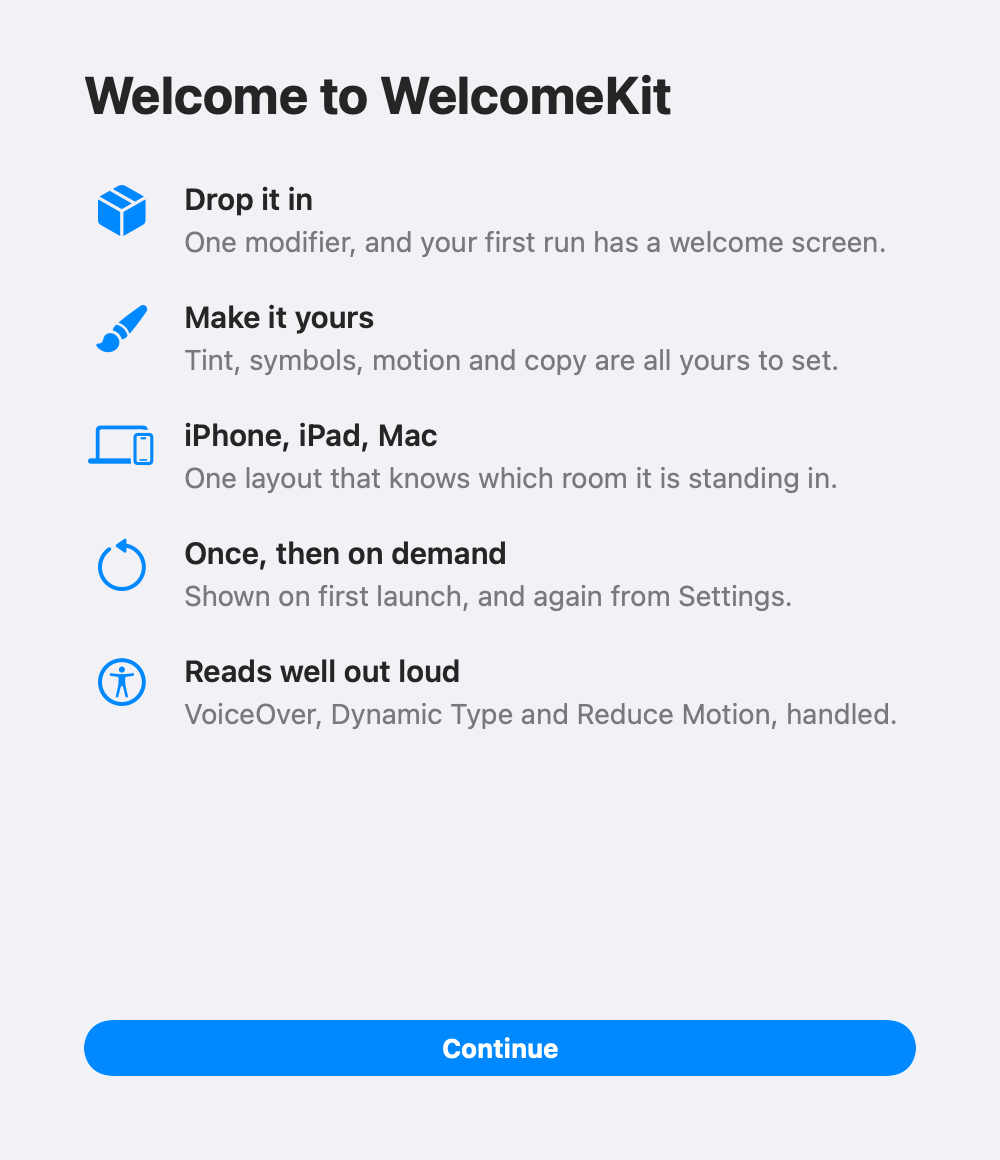
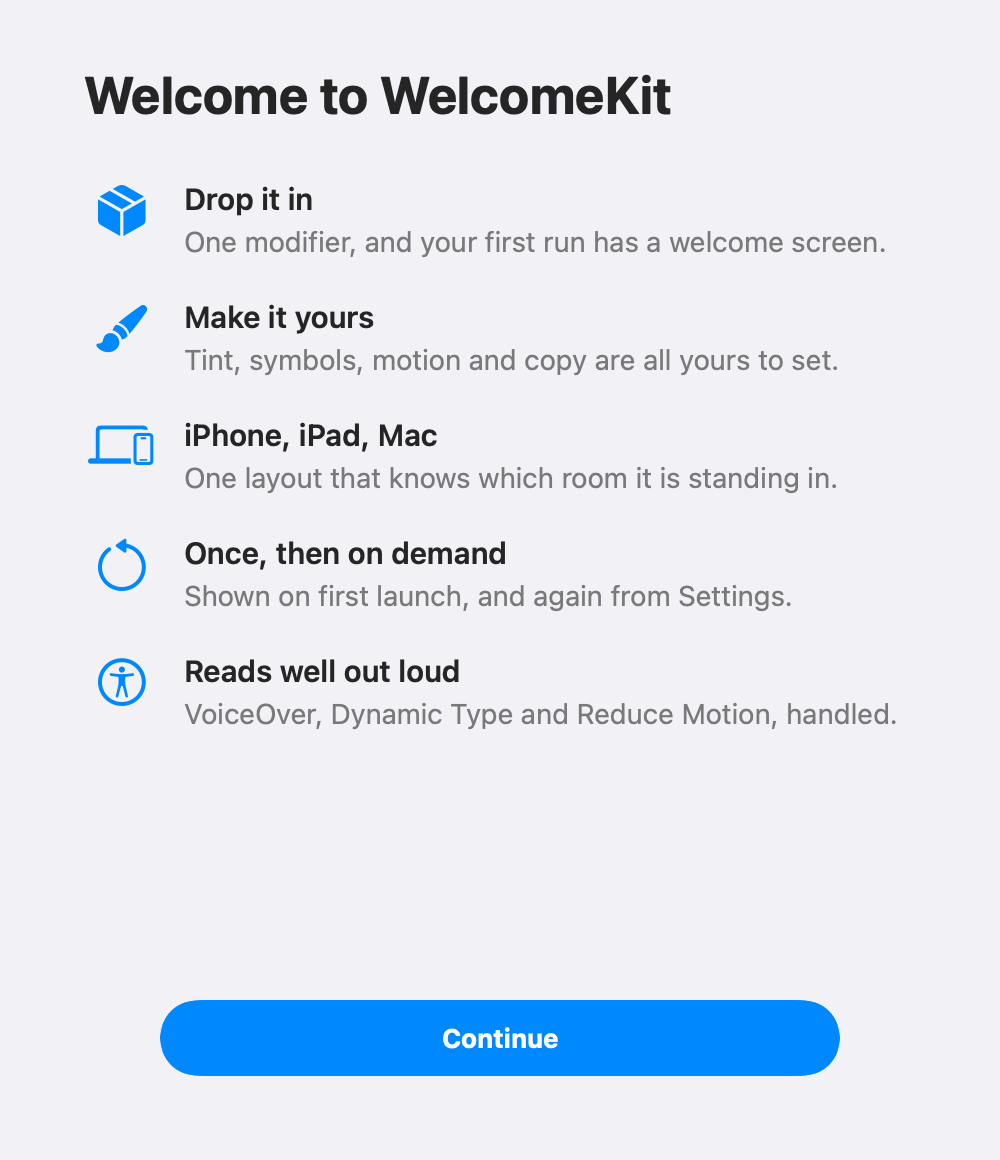
Drop the secondary button, and tighten the Mac call to action
The secondary "Not now" button was a feature nobody asked for: a welcome
screen has one way forward. Removing it takes `secondaryTitle` off the
configuration and `onSecondaryAction` off `WelcomeView` and both modifiers.

On macOS the button spanned 416pt of a 500pt sheet, which read as stretched
next to the same layout on iPad. It now caps at the same 340pt, and a new
`metrics.actionLabelPadding` gives it 10pt more height, since `.controlSize(.large)`
alone leaves a Mac button thin.

Changed region(s): [[0.062, 0.8379, 0.93, 0.931]]

diff --git a/Sources/WelcomeKit/WelcomeView.swift b/Sources/WelcomeKit/WelcomeView.swift
@@ -22,7 +22,7 @@ import SwiftUI
 /// ```
 ///
 /// Use it directly when you present it yourself, or reach for
-/// ``SwiftUICore/View/welcomeSheet(isPresented:title:features:configuration:onContinue:onSecondaryAction:)``
+/// ``SwiftUICore/View/welcomeSheet(isPresented:title:features:configuration:presentation:onContinue:)``
 /// and its first-launch sibling to skip the plumbing.
 public struct WelcomeView: View {
 
@@ -30,7 +30,6 @@ public struct WelcomeView: View {
     private let features: [WelcomeFeature]
     private let configuration: WelcomeConfiguration
     private let onContinue: () -> Void
-    private let onSecondaryAction: (() -> Void)?
 
     @Environment(\.accessibilityReduceMotion) private var reduceMotion
 
@@ -55,22 +54,17 @@ public struct WelcomeView: View {
     ///   - features: The rows, in the order they should arrive.
     ///   - configuration: Colour, motion, copy and metrics. See
     ///     ``WelcomeConfiguration``.
-    ///   - onContinue: Called once when the primary button is tapped.
-    ///   - onSecondaryAction: Called when the optional secondary button is
-    ///     tapped. The button only shows when both this and
-    ///     ``WelcomeConfiguration/secondaryTitle`` are set.
+    ///   - onContinue: Called once when the button is tapped.
     public init(
         title: WelcomeText,
         features: [WelcomeFeature],
         configuration: WelcomeConfiguration = .default,
-        onContinue: @escaping () -> Void,
-        onSecondaryAction: (() -> Void)? = nil
+        onContinue: @escaping () -> Void
     ) {
         self.title = title
         self.features = features
         self.configuration = configuration
         self.onContinue = onContinue
-        self.onSecondaryAction = onSecondaryAction
 
         // With the reveal switched off the screen is complete from the first
         // frame, rather than appearing empty until `onAppear` runs. That also
@@ -172,18 +166,6 @@ public struct WelcomeView: View {
         VStack(spacing: 10) {
             continueButton
 
-            if let secondaryTitle = configuration.secondaryTitle, let onSecondaryAction {
-                Button {
-                    onSecondaryAction()
-                } label: {
-                    secondaryTitle
-                        .text(bundle: configuration.localizationBundle, tableName: configuration.localizationTable)
-                        .font(.subheadline.weight(.medium))
-                }
-                .buttonStyle(.plain)
-                .foregroundStyle(resolvedAccentColor ?? .accentColor)
-            }
-
             if let footnote = configuration.footnote {
                 footnote
                     .text(bundle: configuration.localizationBundle, tableName: configuration.localizationTable)
@@ -193,7 +175,7 @@ public struct WelcomeView: View {
                     .fixedSize(horizontal: false, vertical: true)
             }
         }
-        .welcomeAdaptiveActionWidth(isWide: isWideLayout, maxWidth: metrics.actionMaxWidth)
+        .welcomeAdaptiveActionWidth(isWide: capsActionWidth, maxWidth: metrics.actionMaxWidth)
         .padding(.horizontal, horizontalInset)
         .padding(.top, metrics.bottomBarVerticalPadding)
         .padding(.bottom, actionBottomPadding)
@@ -245,6 +227,7 @@ public struct WelcomeView: View {
         configuration.continueTitle
             .text(bundle: configuration.localizationBundle, tableName: configuration.localizationTable)
             .font(.headline)
+            .padding(.vertical, metrics.actionLabelPadding)
             .welcomeFlexibleLabelWidth()
     }
 
@@ -258,6 +241,17 @@ public struct WelcomeView: View {
     }
 
     private var resolvedAccentColor: Color? { configuration.accentColor }
+
+    /// A phone lets the button fill the width. Every wider surface caps it, a
+    /// Mac window included: a 416pt slab reads as stretched next to the same
+    /// layout on iPad.
+    private var capsActionWidth: Bool {
+        #if os(macOS)
+        true
+        #else
+        isWideLayout
+        #endif
+    }
 
     private var horizontalInset: CGFloat {
         isWideLayout ? metrics.wideHorizontalPadding : metrics.compactHorizontalPadding

diff --git a/Sources/WelcomeKit/WelcomeConfiguration.swift b/Sources/WelcomeKit/WelcomeConfiguration.swift
@@ -89,10 +89,6 @@ public struct WelcomeConfiguration: @unchecked Sendable {
     /// Label of the primary button.
     public var continueTitle: WelcomeText
 
-    /// Label of an optional plain button under the primary one. `nil` hides it,
-    /// and so does a missing `onSecondaryAction` handler.
-    public var secondaryTitle: WelcomeText?
-
     /// Look of the primary button.
     public var buttonStyle: WelcomeButtonStyle
 
@@ -137,7 +133,6 @@ public struct WelcomeConfiguration: @unchecked Sendable {
         footnote: WelcomeText? = nil,
         maximumFeatureCount: Int? = nil,
         continueTitle: WelcomeText = .localized("Continue"),
-        secondaryTitle: WelcomeText? = nil,
         buttonStyle: WelcomeButtonStyle = .automatic,
         animation: WelcomeAnimation = .default,
         isHapticsEnabled: Bool = true,
@@ -159,7 +154,6 @@ public struct WelcomeConfiguration: @unchecked Sendable {
         self.footnote = footnote
         self.maximumFeatureCount = maximumFeatureCount
         self.continueTitle = continueTitle
-        self.secondaryTitle = secondaryTitle
         self.buttonStyle = buttonStyle
         self.animation = animation
         self.isHapticsEnabled = isHapticsEnabled
@@ -315,6 +309,11 @@ public struct WelcomeMetrics: Sendable, Equatable {
     /// Vertical padding inside the bottom bar.
     public var bottomBarVerticalPadding: CGFloat
 
+    /// Extra height inside the primary button, added around its label. iOS gets
+    /// a tall enough button from `.controlSize(.large)` alone; a Mac one comes
+    /// out thin next to the same layout on iPad.
+    public var actionLabelPadding: CGFloat
+
     /// Gap between the title and the first row.
     public var titleBottomPadding: CGFloat
 
@@ -341,6 +340,7 @@ public struct WelcomeMetrics: Sendable, Equatable {
         wideTopPadding: CGFloat = 64,
         extraBottomPadding: CGFloat = 34,
         bottomBarVerticalPadding: CGFloat = 8,
+        actionLabelPadding: CGFloat = 0,
         titleBottomPadding: CGFloat = 28,
         featureSpacing: CGFloat = 20,
         symbolSpacing: CGFloat = 12,
@@ -356,6 +356,7 @@ public struct WelcomeMetrics: Sendable, Equatable {
         self.wideTopPadding = wideTopPadding
         self.extraBottomPadding = extraBottomPadding
         self.bottomBarVerticalPadding = bottomBarVerticalPadding
+        self.actionLabelPadding = actionLabelPadding
         self.titleBottomPadding = titleBottomPadding
         self.featureSpacing = featureSpacing
         self.symbolSpacing = symbolSpacing
@@ -369,6 +370,7 @@ public struct WelcomeMetrics: Sendable, Equatable {
         #if os(macOS)
         WelcomeMetrics(
             compactTopPadding: 32,
+            actionLabelPadding: 5,
             symbolColumnWidth: 38,
             symbolColumnHeight: 30
         )

diff --git a/Sources/WelcomeKit/WelcomePresentation.swift b/Sources/WelcomeKit/WelcomePresentation.swift
@@ -75,8 +75,7 @@ public extension View {
         features: [WelcomeFeature],
         configuration: WelcomeConfiguration = .default,
         presentation: WelcomePresentation = .automatic,
-        onContinue: (() -> Void)? = nil,
-        onSecondaryAction: (() -> Void)? = nil
+        onContinue: (() -> Void)? = nil
     ) -> some View {
         modifier(
             WelcomeSheetModifier(
@@ -85,8 +84,7 @@ public extension View {
                     title: title,
                     features: features,
                     configuration: configuration,
-                    onContinue: onContinue,
-                    onSecondaryAction: onSecondaryAction
+                    onContinue: onContinue
                 ),
                 presentation: presentation,
                 onDismiss: nil
@@ -121,8 +119,7 @@ public extension View {
         features: [WelcomeFeature],
         configuration: WelcomeConfiguration = .default,
         presentation: WelcomePresentation = .automatic,
-        onContinue: (() -> Void)? = nil,
-        onSecondaryAction: (() -> Void)? = nil
+        onContinue: (() -> Void)? = nil
     ) -> some View {
         modifier(
             FirstLaunchWelcomeModifier(
@@ -132,8 +129,7 @@ public extension View {
                     title: title,
                     features: features,
                     configuration: configuration,
-                    onContinue: onContinue,
-                    onSecondaryAction: onSecondaryAction
+                    onContinue: onContinue
                 ),
                 presentation: presentation
             )
@@ -148,7 +144,6 @@ struct WelcomeContent {
     let features: [WelcomeFeature]
     let configuration: WelcomeConfiguration
     let onContinue: (() -> Void)?
-    let onSecondaryAction: (() -> Void)?
 }
 
 private struct WelcomeSheetModifier: ViewModifier {
@@ -178,12 +173,6 @@ private struct WelcomeSheetModifier: ViewModifier {
             onContinue: {
                 isPresented = false
                 content.onContinue?()
-            },
-            onSecondaryAction: content.onSecondaryAction.map { action in
-                {
-                    isPresented = false
-                    action()
-                }
             }
         )
         .interactiveDismissDisabled(!presentation.isDismissible)

diff --git a/Demo/WelcomeKitDemo/DemoView.swift b/Demo/WelcomeKitDemo/DemoView.swift
@@ -26,7 +26,6 @@ struct DemoView: View {
 
     @AppStorage("demo.featureCount") private var featureCount = 5
     @AppStorage("demo.footnote") private var showsFootnote = false
-    @AppStorage("demo.secondaryAction") private var showsSecondaryAction = false
     @AppStorage("demo.dismissible") private var isDismissible = true
     @AppStorage("demo.fullScreenCover") private var usesFullScreenCover = false
 
@@ -86,7 +85,6 @@ struct DemoView: View {
                 Section("Content") {
                     Stepper("Features: \(featureCount)", value: $featureCount, in: 1...DemoFeatures.all.count)
                     Toggle("Footnote", isOn: $showsFootnote)
-                    Toggle("Secondary button", isOn: $showsSecondaryAction)
                 }
 
                 Section {
@@ -114,8 +112,7 @@ struct DemoView: View {
             presentation: WelcomePresentation(
                 style: usesFullScreenCover ? .fullScreenCover : .sheet,
                 isDismissible: isDismissible
-            ),
-            onSecondaryAction: showsSecondaryAction ? {} : nil
+            )
         )
         .welcomeSheetOnFirstLaunch(
             id: "demo",
@@ -142,7 +139,6 @@ struct DemoView: View {
         configuration.animation = WelcomeAnimation(style: revealStyle, speed: speed)
         configuration.isHapticsEnabled = isHapticsEnabled
         configuration.footnote = showsFootnote ? "You can change any of this later in Settings." : nil
-        configuration.secondaryTitle = showsSecondaryAction ? "Not now" : nil
         return configuration
     }
 }

diff --git a/Sources/WelcomeKit/WelcomeStore.swift b/Sources/WelcomeKit/WelcomeStore.swift
@@ -5,7 +5,7 @@
 
 import Foundation
 
-/// The flag behind ``SwiftUICore/View/welcomeSheetOnFirstLaunch(id:store:title:features:configuration:presentation:onContinue:onSecondaryAction:)``.
+/// The flag behind ``SwiftUICore/View/welcomeSheetOnFirstLaunch(id:store:title:features:configuration:presentation:onContinue:)``.
 ///
 /// Read it to branch on whether the welcome screen has run, or reset it to make
 /// it run again — after a big update, or from a debug menu.

diff --git a/Tests/WelcomeKitTests/WelcomeKitTests.swift b/Tests/WelcomeKitTests/WelcomeKitTests.swift
@@ -62,9 +62,11 @@ struct LayoutTests {
         #if os(macOS)
         #expect(metrics.compactTopPadding == 32)
         #expect(metrics.symbolColumnWidth == 38)
+        #expect(metrics.actionLabelPadding == 5)
         #else
         #expect(metrics.compactTopPadding == 84)
         #expect(metrics.symbolColumnWidth == 42)
+        #expect(metrics.actionLabelPadding == 0)
         #endif
     }
 }

diff --git a/README.md b/README.md
@@ -13,7 +13,7 @@ Two lines to show it on first launch. One more to bring it back from Settings.
 <p align="center">
   <img src="Screenshots/iphone-light.png" width="200" alt="iPhone, light">
   <img src="Screenshots/iphone-dark.png" width="200" alt="iPhone, dark, indigo tint, hierarchical symbols">
-  <img src="Screenshots/iphone-orange.png" width="200" alt="iPhone, orange tint, palette symbols, secondary button">
+  <img src="Screenshots/iphone-pink.png" width="200" alt="iPhone, pink tint, hierarchical symbols, footnote">
 </p>
 
 ## Install
@@ -98,7 +98,7 @@ configuration.footnote = "You can change this later in Settings."
 | `isHapticsEnabled` | A tap per row, a success note when the button lands. iOS only. |
 | `background` | `.automatic`, `.color(_:)`, `.gradient(_:)`, `.clear`. |
 | `buttonStyle` | `.automatic`, `.prominent`, `.glass`, `.bordered`. |
-| `continueTitle`, `secondaryTitle`, `footnote` | The copy. Localized keys by default. |
+| `continueTitle`, `footnote` | The copy. Localized keys by default. |
 | `maximumFeatureCount` | Show the first N rows of a longer list. |
 | `titleFont`, `featureTitleFont`, `featureSubtitleFont` | Fonts, if the defaults are not your defaults. |
 | `metrics` | Every padding, width and breakpoint in the layout. |
@@ -130,8 +130,9 @@ the top padding drops, because a sheet has no notch to clear. The check is a
 measured width *and* the iPad idiom, so an iPhone in landscape and an iPad in
 Slide Over both keep the phone numbers.
 
-**Mac** takes a 500×580 sheet with a 26pt title and 24pt symbols, and pads its
-own bottom, since there's no home indicator to sit above.
+**Mac** takes a 500×580 sheet with a 26pt title and 24pt symbols, caps the button
+at the same 340pt iPad uses, and pads its own bottom, since there's no home
+indicator to sit above.
 
 ## What it handles for you
 
